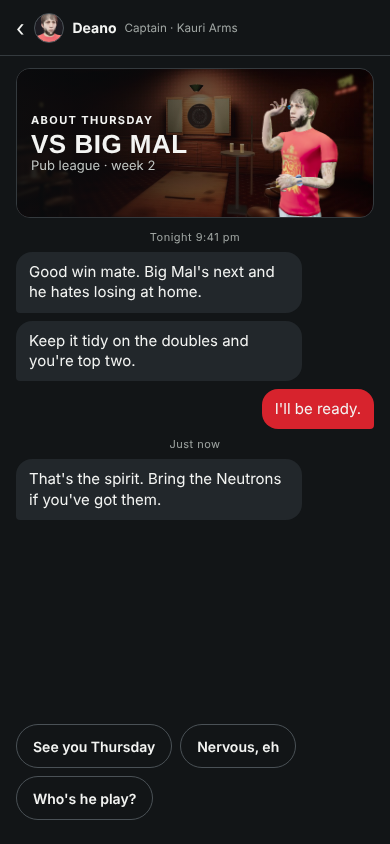
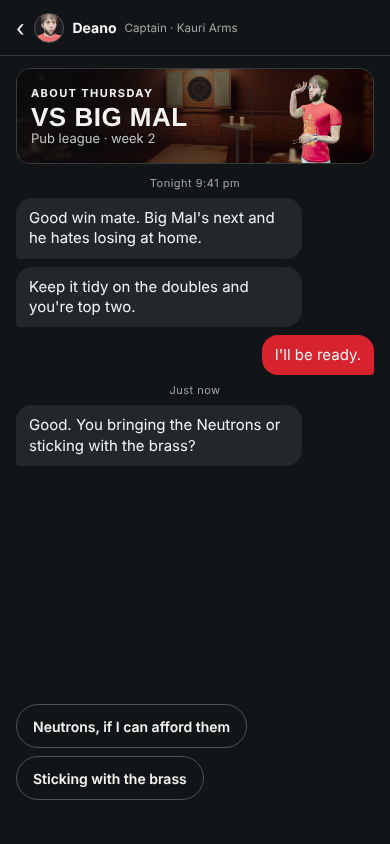
Round 2 mockups r2: ChatGPT P1s (leg end coherent with the scoreboard, fewer stats; buy-vs-earned copy; state-valid replies) and P2s (intro 3 s, no duplicate form; title stakes + bigger tiles; shorter message hero)
Claude-Session: https://claude.ai/code/session_01WmQEKYuzjKWgLqY2q8YZP3

diff --git a/wip/r2/r2.html b/wip/r2/r2.html
@@ -44,14 +44,14 @@ body{background:#000;font-family:var(--b);color:var(--ink);display:flex;flex-wra
 .tape table{width:100%;border-collapse:collapse;font-size:14px}.tape td{padding:8px 0;border-top:1px solid var(--line)}.tape td:nth-child(2){text-align:center;color:var(--ink3);font:700 11px var(--b);letter-spacing:1.4px;text-transform:uppercase}.tape td:last-child{text-align:right}.tape td b{font:800 22px var(--d)}
 /* result levelup */
 .lv{display:grid;grid-template-columns:auto 1fr;gap:14px;align-items:center}.lvn{width:84px;height:84px;border-radius:50%;border:5px solid var(--red);display:grid;place-items:center;font:800 40px var(--d)}
-.unl{height:150px;border-radius:10px;background:#0e0e0e center/cover;position:relative}.unl .chip{position:absolute;left:10px;top:10px}
+.unl{height:112px;border-radius:10px;background:#0e0e0e center/cover;position:relative}.unl .chip{position:absolute;left:10px;top:10px}
 /* title */
-.hero{position:relative;height:330px;border-radius:14px;overflow:hidden;border:1px solid var(--line);background:center/cover}.hero .sh{position:absolute;inset:0;background:linear-gradient(180deg,rgba(10,12,14,0) 40%,rgba(10,12,14,.92))}.hero .tx{position:absolute;left:16px;right:16px;bottom:16px}
-.three{display:grid;grid-template-columns:1fr 1fr 1fr;gap:8px}.three div{height:84px;border-radius:12px;background:var(--card);border:1px solid var(--line);display:flex;flex-direction:column;justify-content:flex-end;padding:10px;font-weight:700;font-size:14px;background-size:cover;background-position:center;position:relative;overflow:hidden}.three div::before{content:"";position:absolute;inset:0;background:linear-gradient(180deg,rgba(0,0,0,0),rgba(0,0,0,.8))}.three div span{position:relative}
+.hero{position:relative;height:250px;border-radius:14px;overflow:hidden;border:1px solid var(--line);background:center/cover}.hero .sh{position:absolute;inset:0;background:linear-gradient(180deg,rgba(10,12,14,0) 40%,rgba(10,12,14,.92))}.hero .tx{position:absolute;left:16px;right:16px;bottom:16px}
+.three{display:grid;grid-template-columns:1fr 1fr 1fr;gap:8px}.three div{height:132px;border-radius:12px;background:var(--card);border:1px solid var(--line);display:flex;flex-direction:column;justify-content:flex-end;padding:10px;font-weight:700;font-size:14px;background-size:cover;background-position:center;position:relative;overflow:hidden}.three div::before{content:"";position:absolute;inset:0;background:linear-gradient(180deg,rgba(0,0,0,0),rgba(0,0,0,.8))}.three div span{position:relative}
 /* messages */
 .th{display:flex;flex-direction:column;gap:8px}.bub{max-width:80%;padding:10px 13px;border-radius:16px 16px 16px 4px;background:var(--card2);font-size:15px;line-height:1.35}.bub.me{align-self:flex-end;background:var(--red);border-radius:16px 16px 4px 16px}.ts{font-size:11px;color:var(--ink3);align-self:center;letter-spacing:.5px}
 .rep{display:flex;gap:8px;flex-wrap:wrap}.rep span{height:44px;padding:0 16px;border-radius:22px;border:1px solid var(--line2);display:grid;place-items:center;font-weight:600}
-.mhero{height:150px;border-radius:14px;overflow:hidden;position:relative;background:url(../../assets/rb/venue_t0.jpg) center/cover;border:1px solid var(--line)}.mhero .sh{position:absolute;inset:0;background:linear-gradient(90deg,rgba(10,12,14,.92),rgba(10,12,14,.2))}.mhero .pf{position:absolute;right:12px;bottom:0;width:120px;height:140px;background:bottom/contain no-repeat}.mhero .tx{position:absolute;left:14px;top:50%;transform:translateY(-50%)}
+.mhero{height:96px;border-radius:14px;overflow:hidden;position:relative;background:url(../../assets/rb/venue_t0.jpg) center/cover;border:1px solid var(--line)}.mhero .sh{position:absolute;inset:0;background:linear-gradient(90deg,rgba(10,12,14,.92),rgba(10,12,14,.2))}.mhero .pf{position:absolute;right:12px;bottom:0;width:90px;height:96px;background:bottom/contain no-repeat}.mhero .tx{position:absolute;left:14px;top:50%;transform:translateY(-50%)}
 </style></head><body>
 
 <!-- 1 SETUP & GEAR -->
@@ -67,9 +67,12 @@ body{background:#000;font-family:var(--b);color:var(--ink);display:flex;flex-wra
 </div></div>
 
 <!-- 2a MATCH: leg end lower third -->
-<div class="ph" id="m_legend"><div class="mbase" style="background-image:url(img/match_base.png)"></div>
-<div class="l3" style="bottom:auto;top:470px"><div><div class="nm">Hayden</div><div class="sub">Avg 47.2 · 21 darts</div></div><div style="text-align:center"><div class="cap" style="margin-bottom:5px;color:var(--ink)">Leg to Hayden</div><div class="pips" style="justify-content:center"><i class="w"></i><i></i></div><div class="sub" style="margin-top:4px">1–0 · first to 2</div></div><div style="text-align:right"><div class="nm" style="color:var(--ink2)">Big Mal</div><div class="sub">Avg 41.8</div></div></div>
-<div style="position:absolute;left:12px;right:12px;top:560px;height:3px;border-radius:2px;background:rgba(255,255,255,.12)"><i style="display:block;width:62%;height:3px;border-radius:2px;background:var(--red)"></i></div>
+<div class="ph" id="m_legend"><div class="mbase" style="background-image:url(img/match_base.png)"></div><div style="position:absolute;left:100px;top:6px;width:205px;height:32px;background:#121517;font:700 11px/1.35 var(--b);letter-spacing:.5px;padding-left:3px"><div style="color:var(--ink2)">CLUB SINGLES</div><div>LEG 2 · 1–0 · FIRST TO 2</div></div>
+<div style="position:absolute;left:6px;right:6px;top:728px;height:112px;border-radius:12px;background:#15181a;border:1px solid var(--line);display:grid;grid-template-columns:1fr 72px 1fr;overflow:hidden">
+<div style="padding:8px 12px;border-top:3px solid var(--red);background:linear-gradient(180deg,#3a1518,#1a1d20)"><div style="font:700 13px var(--b);letter-spacing:.5px">HAYDEN</div><div style="font:800 46px/1 var(--d)">301</div><div style="font:700 11px var(--b);color:var(--ink3)">AVG 47.2</div></div>
+<div style="display:flex;flex-direction:column;align-items:center;justify-content:center;border-inline:1px solid var(--line)"><div style="font:700 11px var(--b);letter-spacing:1.4px;color:var(--ink3)">LEGS</div><div style="font:800 26px var(--d);color:#fff">1–0</div></div>
+<div style="padding:8px 12px;text-align:right"><div style="font:700 13px var(--b);color:var(--ink2)">BIG MAL</div><div style="font:800 46px/1 var(--d);color:var(--ink3)">301</div><div style="font:700 11px var(--b);color:var(--ink3)">AVG 41.8</div></div></div>
+<div class="l3" style="bottom:auto;top:470px;grid-template-columns:auto 1fr;gap:14px;padding:14px 16px"><div style="font:800 italic 40px/1 var(--d);color:var(--red)">LEG</div><div><div class="nm" style="font-size:24px">Hayden takes it</div><div class="sub">1–0 · 40 out in 21 darts · first to 2</div></div></div>
 </div>
 <!-- 2b MATCH: opponent visit, throwing state + banter in his side of the HUD -->
 <div class="ph" id="m_oppvisit"><div class="mbase" style="background-image:url(img/match_opp.png)"></div>
@@ -85,14 +88,14 @@ body{background:#000;font-family:var(--b);color:var(--ink);display:flex;flex-wra
 <!-- 3 MATCH INTRO -->
 <div class="ph" id="m_intro"><div class="tot"></div><div class="duo"><div class="a" style="background-image:url(img/me_hero.png)"></div><div class="b" style="background-image:url(img/mal_hero.png)"></div></div><div class="vs">VS</div>
 <div style="position:absolute;top:24px;left:16px;right:16px;display:flex;justify-content:space-between;align-items:center"><span class="cap" style="color:var(--ink)">Pub league · Week 1 of 8</span><span class="chip">First to 2</span></div>
-<div class="tape"><div class="names"><div><div class="big">Hayden</div><div class="pips" style="margin-top:6px"><i class="w"></i><i class="w"></i><i></i><i class="w"></i><i></i></div></div><div><div class="big">Big Mal</div><div class="pips" style="margin-top:6px;justify-content:flex-end"><i class="w"></i><i></i><i class="w"></i><i class="w"></i><i class="w"></i></div></div></div>
+<div class="tape"><div class="names"><div><div class="big">Hayden</div></div><div><div class="big">Big Mal</div></div></div>
 <table><tr><td><b>45.3</b></td><td>Average</td><td><b>42</b></td></tr><tr><td><b>68</b></td><td>High out</td><td><b>81</b></td></tr><tr><td><b>3–2</b></td><td>Form</td><td><b>4–1</b></td></tr></table>
-<div style="text-align:center;color:var(--ink3);font-size:12px">The Kauri Arms · tap to skip</div></div></div>
+<div style="text-align:center;color:var(--ink3);font-size:12px">The Kauri Arms · 3 s · tap to skip</div></div></div>
 
 <!-- 4 RESULT with level-up folded in -->
 <div class="ph" id="m_result"><div class="scr" style="padding-top:14px">
 <div style="position:relative;height:200px;border-radius:14px;overflow:hidden;border:1px solid var(--line);background:url(img/me_hero.png) 18% 100%/auto 100% no-repeat,url(../../assets/rb/venue_t0.jpg) center/cover"><div style="position:absolute;inset:0;background:linear-gradient(270deg,rgba(10,12,14,.92),rgba(10,12,14,.2) 60%)"></div><div style="position:absolute;right:16px;top:50%;transform:translateY(-50%);text-align:right"><div class="cap" style="color:var(--good)">Won</div><div class="big" style="font-size:60px">2–1</div><div style="color:var(--ink2)">v Big Mal</div></div></div>
-<div class="card" style="border-color:#6a2226;background:linear-gradient(180deg,#2a1416,var(--card))"><div class="cap" style="color:#f0a3a7">Level up</div><div class="lv"><span class="lvn">15</span><div><b style="font-size:17px">Red Dragon Razor Edge unlocked</b><div style="color:var(--ink2);font-size:13px;margin-top:3px">+212 XP · $595 in the Shop</div></div></div>
+<div class="card" style="border-color:#6a2226;background:linear-gradient(180deg,#2a1416,var(--card))"><div class="cap" style="color:#f0a3a7">Level up</div><div class="lv"><span class="lvn">15</span><div><b style="font-size:17px">Red Dragon Razor Edge</b><div style="color:var(--ink2);font-size:13px;margin-top:3px">Now available to buy · $595</div></div></div>
 <div class="unl" style="background-image:url(../../assets/rb/d_razor.jpg)"><span class="chip">New in the Shop</span></div>
 <div class="ghost">See it in the Shop ›</div></div>
 <div class="card" style="flex-direction:row;justify-content:space-between"><div><div class="cap">Cash</div><b class="big" style="font-size:26px">+$55</b></div><div><div class="cap">Average</div><b class="big" style="font-size:26px">47.2</b></div><div><div class="cap">Checkout</div><b class="big" style="font-size:26px">33%</b></div></div>
@@ -100,7 +103,7 @@ body{background:#000;font-family:var(--b);color:var(--ink);display:flex;flex-wra
 
 <!-- 5 TITLE -->
 <div class="ph" id="m_title"><div class="hd"><span class="wm">TOPS</span><span style="flex:1"></span><span style="color:var(--ink3);font-size:13px">Saved · Hayden</span><span class="burg">☰</span></div>
-<div class="scr"><div class="hero" style="background-image:url(img/mal_hero.png),url(../../assets/rb/venue_t0.jpg);background-size:auto 100%,cover;background-position:86% 100%,center;background-repeat:no-repeat"><div class="sh"></div><div class="tx"><div class="cap" style="color:var(--ink)">Next up · Pub league · week 2</div><div class="big" style="font-size:42px;margin-top:4px">VS Big Mal</div><div style="display:flex;gap:6px;margin-top:8px"><span class="chip">You 45.3 · him 42</span><span class="chip g">Win +$60</span></div></div></div>
+<div class="scr"><div class="hero" style="background-image:url(img/mal_hero.png),url(../../assets/rb/venue_t0.jpg);background-size:auto 100%,cover;background-position:86% 100%,center;background-repeat:no-repeat"><div class="sh"></div><div class="tx"><div class="cap" style="color:var(--ink)">Next up · Pub league · week 2</div><div class="big" style="font-size:42px;margin-top:4px">VS Big Mal</div><div style="display:flex;gap:6px;margin-top:8px;flex-wrap:wrap"><span class="chip g">Win and you go 2nd</span><span class="chip">You 45.3 · him 42</span></div></div></div>
 <div class="prim">Continue career<small>Level 3 · $640 · 3–2</small></div>
 <div class="three"><div style="background-image:url(../../assets/rb/venue_t2.jpg)"><span>Play a mate</span></div><div style="background-image:url(../../assets/rb/trophies.jpg)"><span>The Run</span></div><div style="background-image:url(../../assets/rb/backroom.jpg)"><span>Practice</span></div></div>
 <div style="display:flex;justify-content:center;gap:18px;color:var(--ink3);font-size:13px;margin-top:4px"><span>New career</span><span>How to throw</span><span>Sign in</span></div></div></div>
@@ -108,6 +111,6 @@ body{background:#000;font-family:var(--b);color:var(--ink);display:flex;flex-wra
 <!-- 6 MESSAGES -->
 <div class="ph" id="m_msg"><div class="hd"><span style="font-size:22px">‹</span><span class="me"><span class="face" style="background-image:url(img/deano_face.png)"></span><b>Deano</b><small style="color:var(--ink3)">Captain · Kauri Arms</small></span></div>
 <div class="scr"><div class="mhero"><div class="sh"></div><div class="pf" style="background-image:url(img/deano_hero.png)"></div><div class="tx"><div class="cap" style="color:var(--ink)">About Thursday</div><div class="big" style="font-size:26px;margin-top:4px">vs Big Mal</div><div style="color:var(--ink2);font-size:13px">Pub league · week 2</div></div></div>
-<div class="th"><span class="ts">Tonight 9:41 pm</span><div class="bub">Good win mate. Big Mal's next and he hates losing at home.</div><div class="bub">Keep it tidy on the doubles and you're top two.</div><div class="bub me">I'll be ready.</div><span class="ts">Just now</span><div class="bub">That's the spirit. Bring the Neutrons if you've got them.</div></div>
-<div style="flex:1"></div><div class="rep"><span>See you Thursday</span><span>Nervous, eh</span><span>Who's he play?</span></div></div></div>
+<div class="th"><span class="ts">Tonight 9:41 pm</span><div class="bub">Good win mate. Big Mal's next and he hates losing at home.</div><div class="bub">Keep it tidy on the doubles and you're top two.</div><div class="bub me">I'll be ready.</div><span class="ts">Just now</span><div class="bub">Good. You bringing the Neutrons or sticking with the brass?</div></div>
+<div style="flex:1"></div><div class="rep" style="padding-bottom:20px"><span>Neutrons, if I can afford them</span><span>Sticking with the brass</span></div></div></div>
 </body></html>

diff --git a/wip/r2/critique_r2.md b/wip/r2/critique_r2.md
@@ -1,0 +1,16 @@
+# Round 2 mockups · design-critique (Experience, 04:45 13 Nov)
+
+Framework: first impression · usability · hierarchy · consistency · accessibility. Sheet: `wip/r2/r2_contact.jpg`.
+
+| # | Screen | First read | Works | Problems / risks |
+|---|---|---|---|---|
+| 1 | Setup & gear | "My dart, then its parts" | One navigation system (hub tabs + segment); kit stats as meters match Locker | Part rows reuse the dart render as a placeholder; a build needs per-part shots or icons |
+| 2 | Leg end lower-third | "I took the leg, 1–0" | Never covers the board; pips + averages read in under a second; no tap | It sits over the pull pad: must not swallow a pull (Engine); the progress line needs to read as the timer, not a stat |
+| 3 | Opponent visit | His big red-edged score block | Throwing state lives where the eye already is; banter no longer covers the room | Caption at 13 px is quiet; it has to stay one line (long lines truncate) |
+| 4 | In-match Menu | "Settings, then back" | Same sheet language as the hub ☰; 44+ px rows | Quit must keep today's two-tap confirm |
+| 5 | Match intro | Two men, VS, numbers | Real renders, same faces as Tonight/Result, so the three screens tell one story | Mirroring Big Mal hides his throwing hand; renders end at the waist (faded) |
+| 6 | Level-up in Result | "Level 15, new dart" | No new→old→new jump; one red primary | The unlock image must be the real product shot/render of that item |
+| 7 | Title / Continue | "Big Mal next, continue" | Fixture as hero; three modes as tiles; links demoted | Duplicates Tonight's hero: option is to skip the title for returning players |
+| 8 | Messages | "Deano about Thursday" | Message tied to its fixture; bubbles + chips | Copy is placeholder; sender hero render only where we have a 3D character |
+
+Accessibility: all text ≥ 11 px, taps ≥ 44 px, white on graphite/red ≥ 4.5:1.
